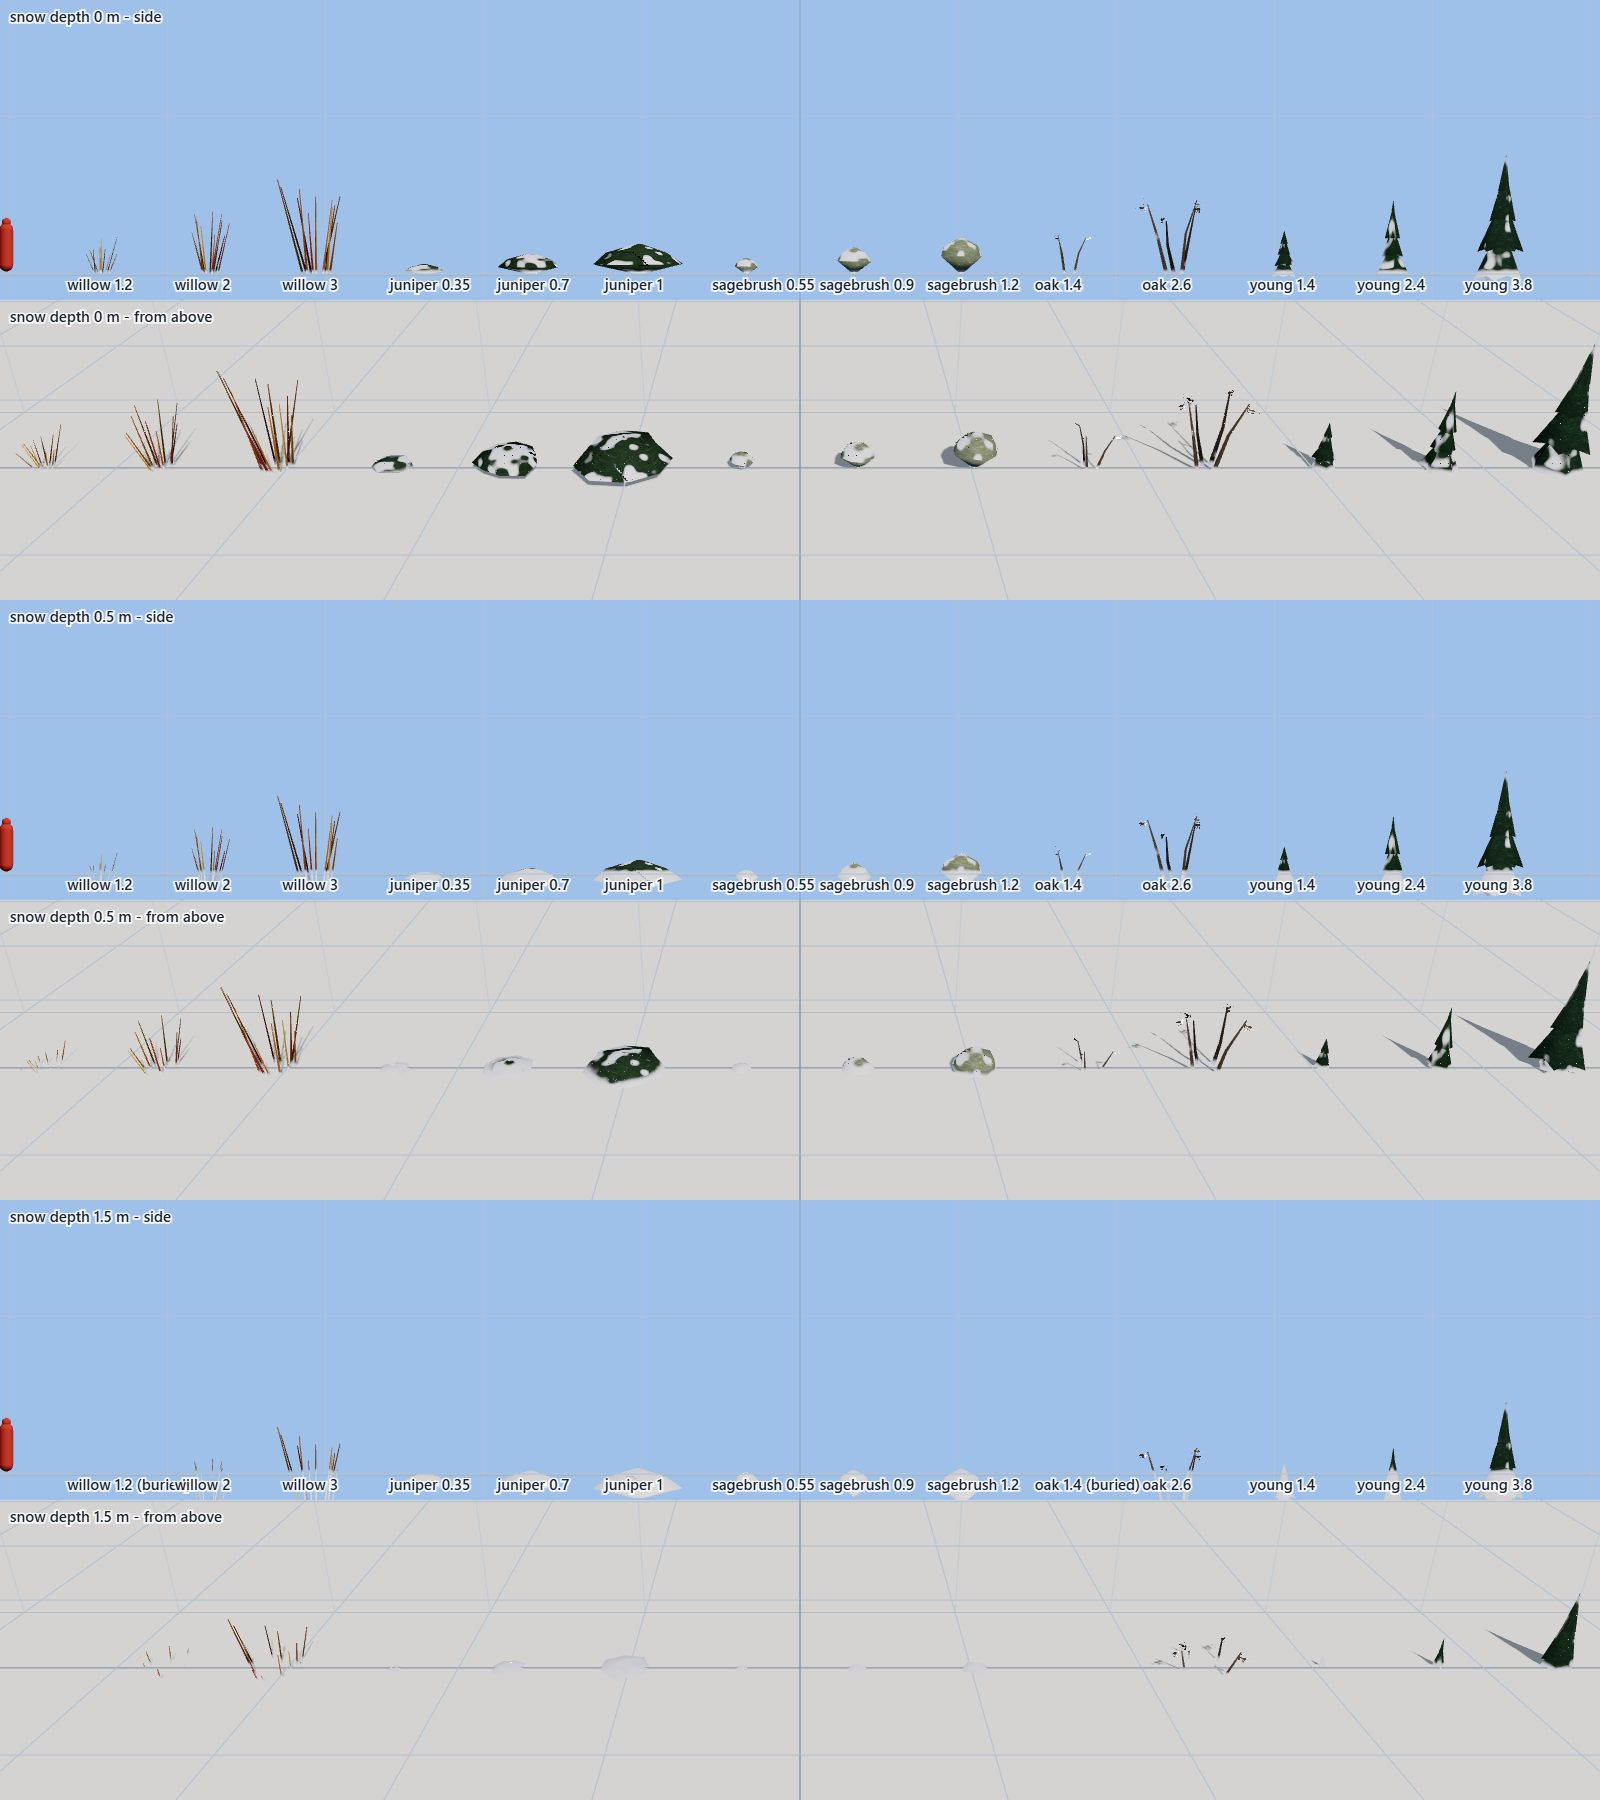
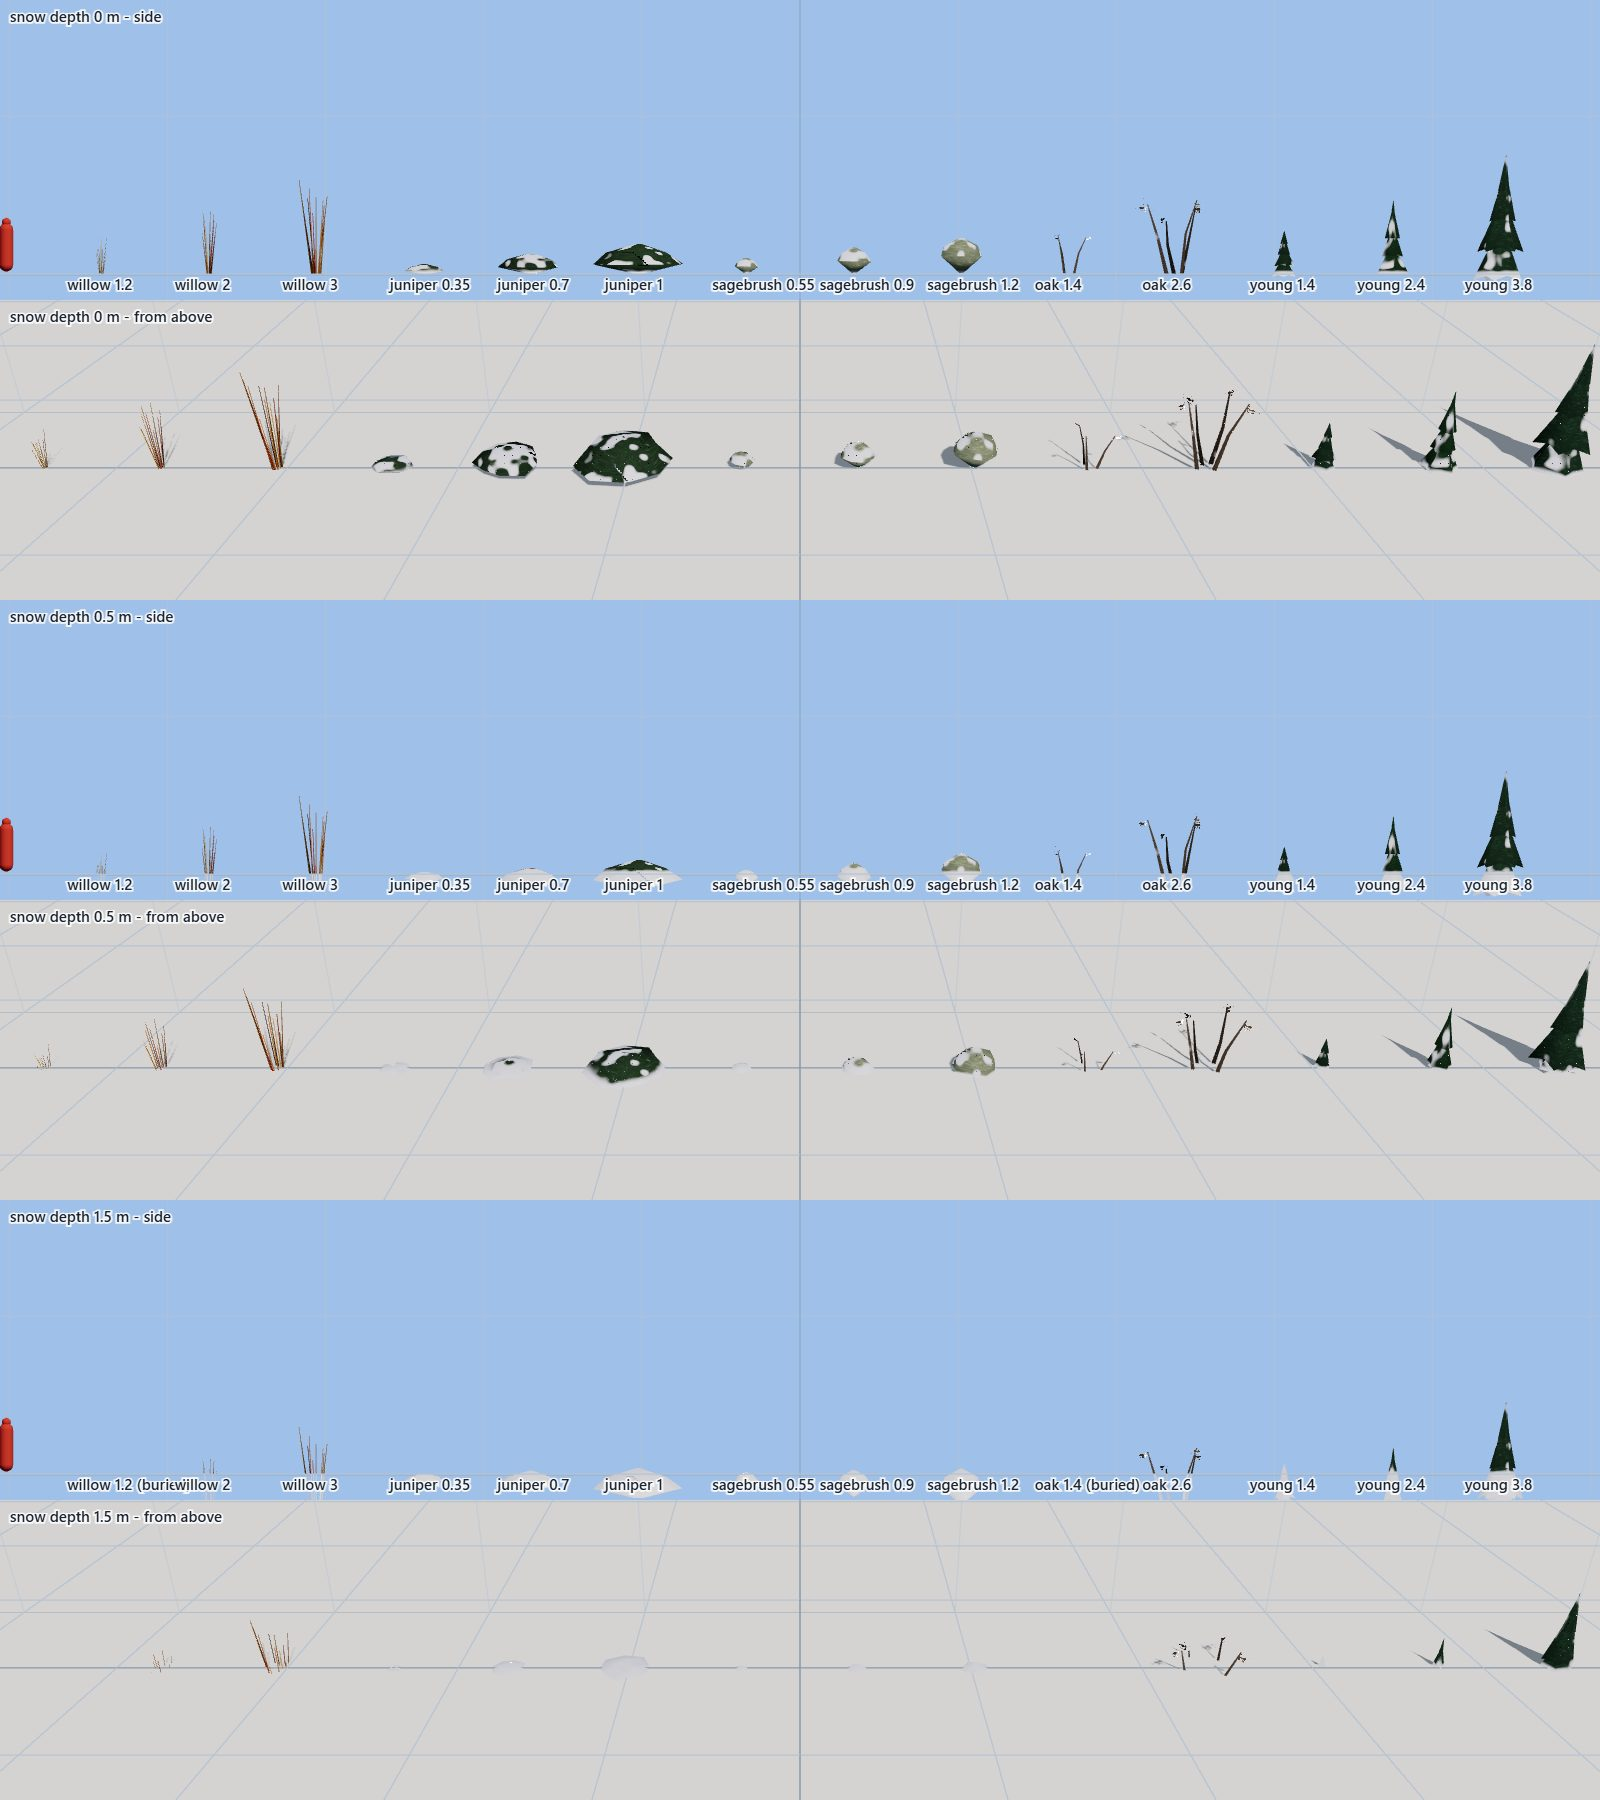
FEAT-159: willow as tight stem clumps, a few cm of drift on thin stems, no see-through fade on shrubs under 2.5 m
The see-through fade (FEAT-155) dithered a young conifer beside the rider; it now applies only where more than
2.5 m stands above the snow. Willow stems come from a tight root and stay thin (a record is held to 0.35 of its
height across), and the snow line's drift height is per kind (aShrub.z): 4 cm on willow, 6 on oak, 20 to 25 on
mats and saplings.

diff --git a/game/src/world/Shrubs.ts b/game/src/world/Shrubs.ts
@@ -2,7 +2,7 @@ import * as THREE from 'three';
 import type { Pack } from '../pack/Pack';
 import type { Collider } from '../sim/Collider';
 import { aspectOf, snowpackChanged, snowpackDepth, snowpackState, type SnowpackState } from '../sim/Snowpack';
-import { SPECIES, VARIANTS, hash01, fadeWidth, treeMaterial, treeDepthMaterial, newBand, SHRUBS, SHRUB_KINDS, YOUNG_CONIFER, buildShrubGeometries, type TreeKit, type ShrubGeometrySet } from './trees';
+import { SPECIES, VARIANTS, hash01, fadeWidth, treeMaterial, treeDepthMaterial, newBand, SHRUBS, SHRUB_KINDS, WILLOW, YOUNG_CONIFER, buildShrubGeometries, type TreeKit, type ShrubGeometrySet } from './trees';
 import { vegetationNearRadius } from './Vegetation';
 
 /**
@@ -15,7 +15,7 @@ import { vegetationNearRadius } from './Vegetation';
  * it is drawn. A juniper, sagebrush or young conifer buried past its top still shows as a snow-covered
  * hump (SHRUBS[k].hump, fading out under 2 m more snow); willow and oak stems just go under. The material
  * (materials.ts, SHRUB) caps the visible tops with the tree snow, drifts snow round the stems where they
- * leave the snow (the per-instance `aShrub` snow line) and covers a half-buried mat or sapling in a mound.
+ * leave the snow (the per-instance `aShrub`: snow line and drift height, a few cm on a thin stem) and covers a half-buried mat or sapling in a mound.
  *
  * Drawing: one InstancedMesh per kind x variant (20), filled from the shrubs within the reach of where the
  * camera was, regathered every 25 m of movement or when the snowpack changes; the band (materials.ts)
@@ -221,7 +221,8 @@ export class Shrubs {
         crown[i] = Math.max(nat, Math.min(r, 0.32 * h));
       } else {
         combo[i] = first[kind] + Math.floor(hash01(x, y, 3) * SHRUBS[kind].variants) % SHRUBS[kind].variants;
-        crown[i] = Math.max(0.15, r);
+        // a willow record is one bush of a clump: kept to about a third of its height across, so the clump reads as stems close together
+        crown[i] = Math.max(0.15, kind === WILLOW ? Math.min(r, 0.35 * h) : r);
       }
       yaw[i] = hash01(x, y, 5) * Math.PI * 2;
       tint[i] = 0.92 + 0.16 * hash01(x, y, 13);
@@ -284,26 +285,26 @@ export class Shrubs {
           if (b) b[3] = brushUp ? gz + above : OFF;
         }
         if (vis < MIN_SHOW) { buried++; continue; }
-        this.staged[cell.combo![i]].push(cell.cx * 65536 + cell.cy, i, gz + vis - h, this.bury.line, this.bury.mound);
+        this.staged[cell.combo![i]].push(cell.cx * 65536 + cell.cy, i, gz + vis - h, this.bury.line, this.bury.mound, k.drift);
       }
     }
     // fill the meshes
     let drawn = 0;
     const cellOf = (key: number): Cell | undefined => this.cells.get(`${Math.floor(key / 65536)}_${key % 65536}`);
     for (let c = 0; c < this.combos.length; c++) {
-      const list = this.staged[c], n = list.length / 5;
+      const list = this.staged[c], n = list.length / 6;
       let mesh = this.meshes[c];
       if (n === 0) { if (mesh) mesh.visible = false; continue; }
       if (!mesh || mesh.instanceMatrix.count < n) mesh = this.makeMesh(c, Math.ceil(n * 1.5) + 16);
       const attr = mesh.geometry.getAttribute('aShrub') as THREE.InstancedBufferAttribute, sa = attr.array as Float32Array;
       const ca = mesh.instanceColor!.array as Float32Array;
       for (let q = 0; q < n; q++) {
-        const cell = cellOf(list[q * 5])!, i = list[q * 5 + 1], o = i * 6, d = cell.data!;
+        const e = q * 6, cell = cellOf(list[e])!, i = list[e + 1], o = i * 6, d = cell.data!;
         const cr = cell.crown![i], h = d[o + 3];
         this.q.setFromAxisAngle(this.up, cell.yaw![i]);
-        this.mtx.compose(this.pos.set(d[o], list[q * 5 + 2], -d[o + 1]), this.q, this.scl.set(cr, h, cr));
+        this.mtx.compose(this.pos.set(d[o], list[e + 2], -d[o + 1]), this.q, this.scl.set(cr, h, cr));
         mesh.setMatrixAt(q, this.mtx);
-        sa[q * 2] = list[q * 5 + 3]; sa[q * 2 + 1] = list[q * 5 + 4];
+        sa[q * 3] = list[e + 3]; sa[q * 3 + 1] = list[e + 4]; sa[q * 3 + 2] = list[e + 5];
         const t = cell.tint![i];
         ca[q * 3] = t; ca[q * 3 + 1] = t; ca[q * 3 + 2] = t;
       }
@@ -327,7 +328,7 @@ export class Shrubs {
     const combo = this.combos[c], src = combo.geo, g = new THREE.BufferGeometry();
     g.index = src.index;
     for (const name of Object.keys(src.attributes)) g.setAttribute(name, src.getAttribute(name));
-    g.setAttribute('aShrub', new THREE.InstancedBufferAttribute(new Float32Array(cap * 2), 2));
+    g.setAttribute('aShrub', new THREE.InstancedBufferAttribute(new Float32Array(cap * 3), 3));
     g.boundingBox = src.boundingBox; g.boundingSphere = src.boundingSphere;
     const mesh = new THREE.InstancedMesh(g, combo.young ? this.mat.young : this.mat.shrub, cap);
     mesh.instanceColor = new THREE.InstancedBufferAttribute(new Float32Array(cap * 3), 3);

diff --git a/game/src/world/trees/shrubs.ts b/game/src/world/trees/shrubs.ts
@@ -30,6 +30,8 @@ export interface ShrubKind {
   hump: number;
   /** the share of the snow mound cover it takes once more than half buried (mats and saplings hold it, stems do not) */
   mound: number;
+  /** how high the snow drifts up it where it leaves the snow (m): a mat or a sapling collects a drift, a thin stem a few cm */
+  drift: number;
   /** how much it slows a board riding through (0..1 of the brush drag; young conifers over 1.5 m are trunks instead) */
   brush: number;
   /** the triangle budget per shrub (the card's) */
@@ -37,11 +39,11 @@ export interface ShrubKind {
 }
 
 export const SHRUBS: ShrubKind[] = [
-  { name: 'willow', variants: 3, radius: 0.42, colour: [0x8a2f1c, 0xb8862e], hump: 0, mound: 0, brush: 0.8, budget: 60 },
-  { name: 'juniper', variants: 2, radius: 1.4, colour: [0x2a3c2d, 0x354b37], hump: 0.3, mound: 1, brush: 0.5, budget: 40 },
-  { name: 'sagebrush', variants: 2, radius: 0.6, colour: [0x707a66, 0x89927d], hump: 0.25, mound: 0.8, brush: 0.6, budget: 40 },
-  { name: 'young conifer', variants: 4, radius: 0, colour: [0, 0], hump: 0.4, mound: 0.9, brush: 1, budget: 96 },
-  { name: 'gambel oak', variants: 2, radius: 0.5, colour: [0x4f4339, 0x6e6157], hump: 0, mound: 0, brush: 1, budget: 60 },
+  { name: 'willow', variants: 3, radius: 0.42, colour: [0x8a2f1c, 0xb8862e], hump: 0, mound: 0, drift: 0.04, brush: 0.8, budget: 60 },
+  { name: 'juniper', variants: 2, radius: 1.4, colour: [0x2a3c2d, 0x354b37], hump: 0.3, mound: 1, drift: 0.25, brush: 0.5, budget: 40 },
+  { name: 'sagebrush', variants: 2, radius: 0.6, colour: [0x707a66, 0x89927d], hump: 0.25, mound: 0.8, drift: 0.2, brush: 0.6, budget: 40 },
+  { name: 'young conifer', variants: 4, radius: 0, colour: [0, 0], hump: 0.4, mound: 0.9, drift: 0.2, brush: 1, budget: 96 },
+  { name: 'gambel oak', variants: 2, radius: 0.5, colour: [0x4f4339, 0x6e6157], hump: 0, mound: 0, drift: 0.06, brush: 1, budget: 60 },
 ];
 
 /** the snow a stem or twig holds (it is near vertical; a little on the upper side) */
@@ -69,17 +71,20 @@ function tint(kind: ShrubKind, t: number, mean: number): THREE.Color {
   return new THREE.Color(kind.colour[0]).lerp(new THREE.Color(kind.colour[1]), t).multiplyScalar(1 / (mean || 0.5));
 }
 
-/** willow: 10 to 12 straight thin stems fanning out of one root (a winter willow is a mass of upright red stems) */
+/**
+ * willow: 10 to 12 straight thin stems from one tight root, opening a little toward the top like a vase (a
+ * winter willow is a dense mass of upright red stems); they reach about 60 % of the natural radius
+ */
 function willow(v: number, barkMean: number[]): Builder {
   const k = SHRUBS[WILLOW], R = k.radius, r = rng(4100 + v * 37), b = new Builder();
   b.normR = R; b.normY = 0.6;
   const bark = barkRect(2), n = 10 + v;
   for (let i = 0; i < n; i++) {
     const az = (i / n) * Math.PI * 2 + (r() - 0.5) * 0.7;
-    const rb = 0.02 + 0.13 * Math.sqrt(r()), lean = 0.06 + 0.32 * r(), top = i === 0 ? 1 : 0.55 + 0.42 * r();
+    const rb = 0.01 + 0.05 * Math.sqrt(r()), lean = 0.04 + 0.2 * r(), top = i === 0 ? 1 : 0.55 + 0.42 * r();
     const dx = Math.cos(az), dz = Math.sin(az), bx = dx * rb, bz = dz * rb;
     const reach = Math.min(R - rb, top * Math.tan(lean));
-    stem(b, [new THREE.Vector3(bx, 0, bz), new THREE.Vector3(bx + dx * reach, top, bz + dz * reach)], [0.012, 0.004], az + Math.PI / 4 + r(), bark, tint(k, r(), barkMean[2]));
+    stem(b, [new THREE.Vector3(bx, 0, bz), new THREE.Vector3(bx + dx * reach, top, bz + dz * reach)], [0.008, 0.003], az + Math.PI / 4 + r(), bark, tint(k, r(), barkMean[2]));
   }
   return b;
 }

diff --git a/game/src/world/trees/materials.ts b/game/src/world/trees/materials.ts
@@ -84,16 +84,17 @@ const SNOW_VERT_HEAD = TREE_SNOW_VERT + /* glsl */ `
   attribute float snowHold;
   varying vec3 vSnowRel; varying float vSnowHold; varying float vSnowY;
   #ifdef SHRUB
-    // FEAT-159, per instance: the snow line (share of the height under the snow) and the mound cover (0..1)
-    attribute vec2 aShrub;
-    varying vec2 vShrub; varying float vShrubH;
+    // FEAT-159, per instance: the snow line (share of the height under the snow), the mound cover (0..1)
+    // and how high the snow drifts up it (m)
+    attribute vec3 aShrub;
+    varying vec3 vShrub; varying float vShrubH;
   #endif
 `;
 const SNOW_FRAG_HEAD = TREE_SNOW_COMMON + /* glsl */ `
   uniform float uSnowK;
   varying vec3 vSnowRel; varying float vSnowHold; varying float vSnowY;
   #ifdef SHRUB
-    varying vec2 vShrub; varying float vShrubH;
+    varying vec3 vShrub; varying float vShrubH;
   #endif
 `;
 /** after color_fragment: the snow on this fragment, the needle colour under it, and the ghost's alpha */
@@ -117,11 +118,11 @@ const SNOW_COLOR = /* glsl */ `
   }
   #ifdef SHRUB
   {
-    // FEAT-159: the snow drifted round the stems where they come out of it (5 to 25 cm up), and on a
-    // buried mat or sapling the mound over it, a few dark tips showing through
+    // FEAT-159: the snow drifted round it where it comes out of the snow (up to vShrub.z: 25 cm on a mat,
+    // a few cm on a thin stem), and on a buried mat or sapling the mound over it, a few dark tips showing through
     float sn2 = treeSnowNoise(vSnowRel * 4.1 + 7.0);
     float above = (vSnowY - vShrub.x) * vShrubH;
-    float drift = 1.0 - smoothstep(0.05, 0.12 + 0.13 * sn2, above);
+    float drift = 1.0 - smoothstep(0.2 * vShrub.z, vShrub.z * (0.5 + 0.5 * sn2), above);
     float mound = smoothstep(0.35, 0.7, vShrub.y * (0.7 + 0.6 * sn2));
     float c = max(drift, mound);
     if (c > snowCov) { snowCov = c; diffuseColor.rgb = mix(kNeedle, TREE_SNOW_ALB * (0.9 + 0.1 * sn2), c); }
@@ -174,6 +175,10 @@ export function treeMaterial(atlas: THREE.Texture, o: TreeMaterialOpts): THREE.M
       .replace('#include <begin_vertex>', '#include <begin_vertex>\n' + KIT_BEGIN)
       .replace('#include <project_vertex>', `#include <project_vertex>
         vTreeFade = treeFade(kOrigin, length(ktm[1].xyz), length(ktm[0].xyz), position.y);
+        #ifdef SHRUB
+          // FEAT-159: the see-through fade is for crowns that hide the rider; a shrub only fades when over 2.5 m stands above the snow
+          if ((1.0 - aShrub.x) * vShrubH < 2.5) vTreeFade = 0.0;
+        #endif
         ${COLLAPSE}`);
     shader.fragmentShader = TREE_FADE_FRAG_HEAD + LOD_FRAG_HEAD + SNOW_FRAG_HEAD + TREE_SNOW_LIGHT + shader.fragmentShader
       .replace('#include <clipping_planes_fragment>', `${LOD_FRAG_BODY}\n${TREE_FADE_FRAG_BODY}\n#include <clipping_planes_fragment>`)

diff --git a/game/tools/treeshot/scene.ts b/game/tools/treeshot/scene.ts
@@ -329,7 +329,7 @@ function addShrub(kind: number, v: number, x: number, z: number, h: number, r: n
   const g = new THREE.BufferGeometry();
   g.index = src.index;
   for (const n of Object.keys(src.attributes)) g.setAttribute(n, src.getAttribute(n));
-  g.setAttribute('aShrub', new THREE.InstancedBufferAttribute(new Float32Array([b.line, b.mound]), 2));
+  g.setAttribute('aShrub', new THREE.InstancedBufferAttribute(new Float32Array([b.line, b.mound, SHRUBS[kind].drift]), 3));
   const mesh = new THREE.InstancedMesh(g, kind === YOUNG_CONIFER ? youngMat : shrubMat, 1);
   tmpQ.setFromAxisAngle(up, yaw);
   tmpM.compose(new THREE.Vector3(x, b.vis - h, z), tmpQ, new THREE.Vector3(r, h, r));
@@ -343,7 +343,7 @@ function addShrub(kind: number, v: number, x: number, z: number, h: number, r: n
 
 /** the lineup's shrubs: kind, variant, height (m), crown radius (m) */
 const SHRUB_LINE: [number, number, number, number][] = [
-  [0, 0, 1.2, 0.7], [0, 1, 2, 1], [0, 2, 3, 1.3],
+  [0, 0, 1.2, 0.42], [0, 1, 2, 0.7], [0, 2, 3, 1.05],
   [1, 0, 0.35, 0.6], [1, 1, 0.7, 1], [1, 0, 1, 1.4],
   [2, 0, 0.55, 0.35], [2, 1, 0.9, 0.5], [2, 0, 1.2, 0.7],
   [4, 0, 1.4, 1], [4, 1, 2.6, 1.6],
